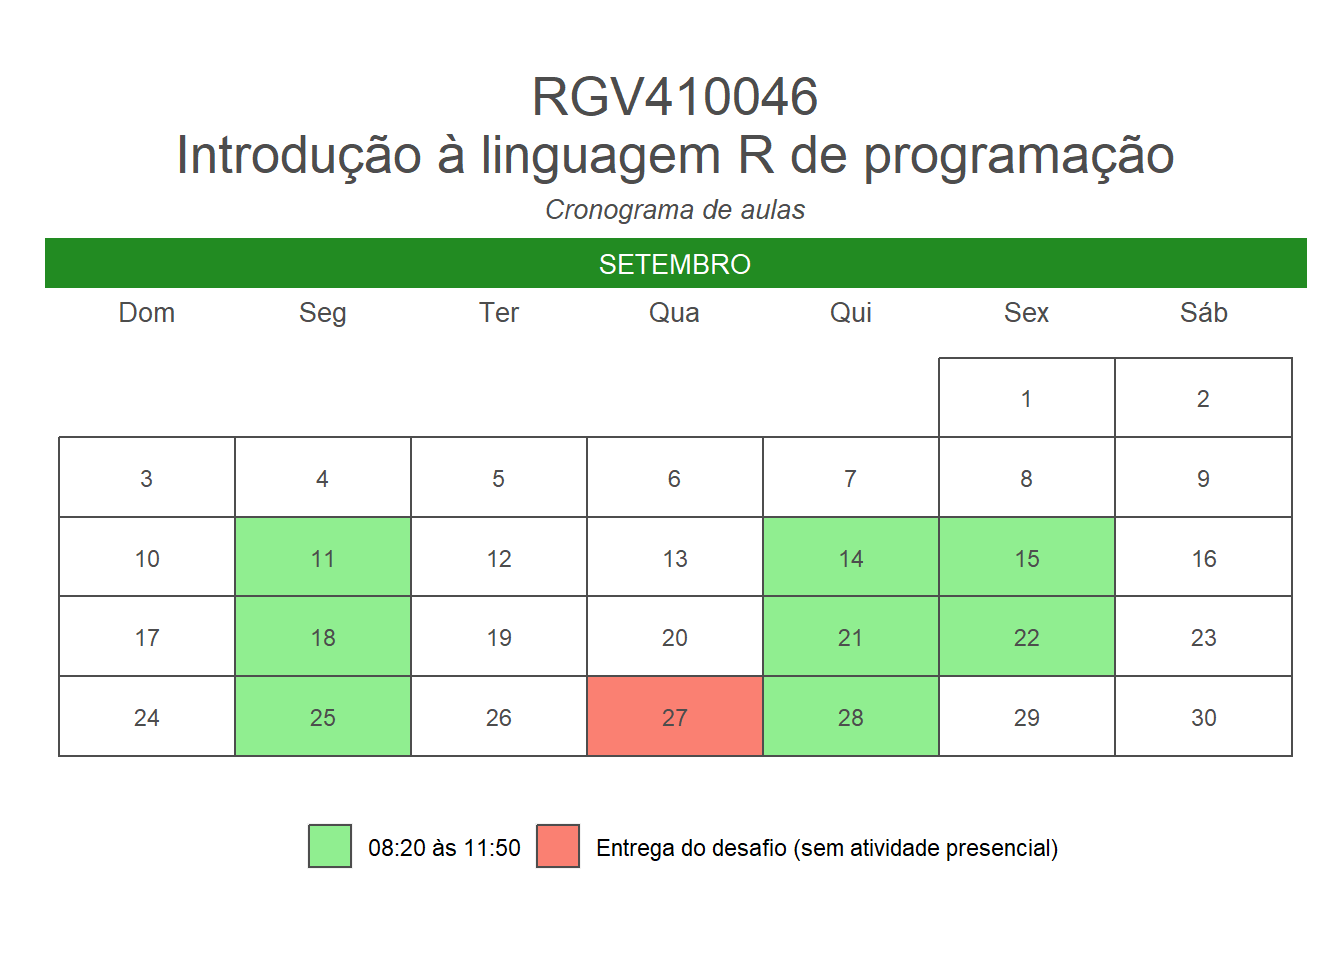
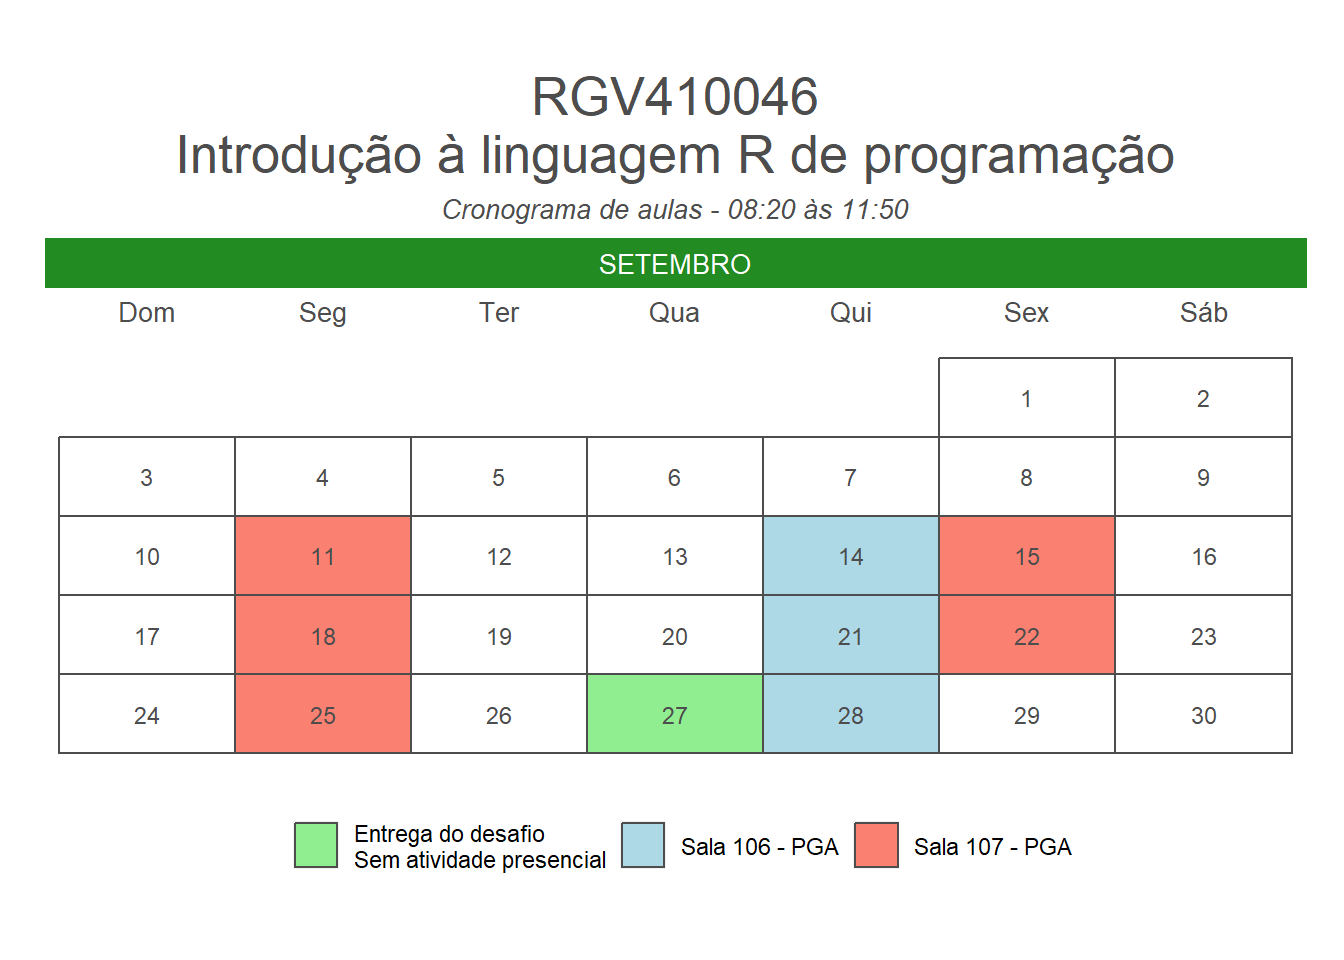
update site

diff --git a/docs/RGV410046/RGV410046_00_ABOUT.html b/docs/RGV410046/RGV410046_00_ABOUT.html
@@ -333,19 +333,19 @@ pre > code.sourceCode > span > a:first-child::before { text-decoration: underlin
 <span id="cb1-2"><a href="#cb1-2" aria-hidden="true" tabindex="-1"></a><span class="co"># tutorial calendR</span></span>
 <span id="cb1-3"><a href="#cb1-3" aria-hidden="true" tabindex="-1"></a><span class="co"># https://r-coder.com/calendar-plot-r/</span></span>
 <span id="cb1-4"><a href="#cb1-4" aria-hidden="true" tabindex="-1"></a>events <span class="ot">&lt;-</span> <span class="fu">rep</span>(<span class="cn">NA</span>, <span class="dv">30</span>)</span>
-<span id="cb1-5"><a href="#cb1-5" aria-hidden="true" tabindex="-1"></a>events[<span class="fu">c</span>(<span class="dv">11</span>, <span class="dv">14</span>, <span class="dv">15</span>, <span class="dv">18</span>, <span class="dv">21</span>, <span class="dv">22</span>, <span class="dv">25</span>, <span class="dv">28</span>)] <span class="ot">&lt;-</span> <span class="st">"08:20 às 11:50"</span></span>
-<span id="cb1-6"><a href="#cb1-6" aria-hidden="true" tabindex="-1"></a>events[<span class="dv">27</span>] <span class="ot">&lt;-</span> <span class="st">"Entrega do desafio (sem atividade presencial)"</span></span>
-<span id="cb1-7"><a href="#cb1-7" aria-hidden="true" tabindex="-1"></a></span>
-<span id="cb1-8"><a href="#cb1-8" aria-hidden="true" tabindex="-1"></a><span class="co"># img &lt;- "figs/calendr.png"</span></span>
-<span id="cb1-9"><a href="#cb1-9" aria-hidden="true" tabindex="-1"></a></span>
-<span id="cb1-10"><a href="#cb1-10" aria-hidden="true" tabindex="-1"></a><span class="co"># Creating the calendar</span></span>
-<span id="cb1-11"><a href="#cb1-11" aria-hidden="true" tabindex="-1"></a><span class="fu">calendR</span>(<span class="at">year =</span> <span class="dv">2022</span>,</span>
-<span id="cb1-12"><a href="#cb1-12" aria-hidden="true" tabindex="-1"></a>        <span class="at">start_date =</span><span class="st">"2023-09-01"</span>,</span>
+<span id="cb1-5"><a href="#cb1-5" aria-hidden="true" tabindex="-1"></a>events[<span class="fu">c</span>(<span class="dv">14</span>, <span class="dv">21</span>, <span class="dv">28</span>)] <span class="ot">&lt;-</span> <span class="st">"Sala 106 - PGA"</span></span>
+<span id="cb1-6"><a href="#cb1-6" aria-hidden="true" tabindex="-1"></a>events[<span class="fu">c</span>(<span class="dv">11</span>, <span class="dv">15</span>, <span class="dv">18</span>, <span class="dv">22</span>, <span class="dv">25</span>)] <span class="ot">&lt;-</span> <span class="st">"Sala 107 - PGA"</span></span>
+<span id="cb1-7"><a href="#cb1-7" aria-hidden="true" tabindex="-1"></a>events[<span class="dv">27</span>] <span class="ot">&lt;-</span> <span class="st">"Entrega do desafio </span><span class="sc">\n</span><span class="st">Sem atividade presencial"</span></span>
+<span id="cb1-8"><a href="#cb1-8" aria-hidden="true" tabindex="-1"></a></span>
+<span id="cb1-9"><a href="#cb1-9" aria-hidden="true" tabindex="-1"></a><span class="co"># img &lt;- "figs/calendr.png"</span></span>
+<span id="cb1-10"><a href="#cb1-10" aria-hidden="true" tabindex="-1"></a></span>
+<span id="cb1-11"><a href="#cb1-11" aria-hidden="true" tabindex="-1"></a><span class="co"># Creating the calendar</span></span>
+<span id="cb1-12"><a href="#cb1-12" aria-hidden="true" tabindex="-1"></a><span class="fu">calendR</span>(<span class="at">start_date =</span><span class="st">"2023-09-01"</span>,</span>
 <span id="cb1-13"><a href="#cb1-13" aria-hidden="true" tabindex="-1"></a>        <span class="at">end_date =</span> <span class="st">"2023-09-30"</span>,</span>
 <span id="cb1-14"><a href="#cb1-14" aria-hidden="true" tabindex="-1"></a>        <span class="at">special.days =</span> events,</span>
-<span id="cb1-15"><a href="#cb1-15" aria-hidden="true" tabindex="-1"></a>        <span class="at">special.col =</span>  <span class="fu">c</span>(<span class="st">"lightgreen"</span>, <span class="st">"salmon"</span>),</span>
+<span id="cb1-15"><a href="#cb1-15" aria-hidden="true" tabindex="-1"></a>        <span class="at">special.col =</span>  <span class="fu">c</span>(<span class="st">"lightgreen"</span>, <span class="st">"lightblue"</span>, <span class="st">"salmon"</span>),</span>
 <span id="cb1-16"><a href="#cb1-16" aria-hidden="true" tabindex="-1"></a>        <span class="at">title =</span> <span class="st">"RGV410046</span><span class="sc">\n</span><span class="st">Introdução à linguagem R de programação"</span>, </span>
-<span id="cb1-17"><a href="#cb1-17" aria-hidden="true" tabindex="-1"></a>        <span class="at">subtitle =</span> <span class="st">"Cronograma de aulas"</span>,</span>
+<span id="cb1-17"><a href="#cb1-17" aria-hidden="true" tabindex="-1"></a>        <span class="at">subtitle =</span> <span class="st">"Cronograma de aulas - 08:20 às 11:50"</span>,</span>
 <span id="cb1-18"><a href="#cb1-18" aria-hidden="true" tabindex="-1"></a>        <span class="at">mbg.col =</span> <span class="st">"forestgreen"</span>,            </span>
 <span id="cb1-19"><a href="#cb1-19" aria-hidden="true" tabindex="-1"></a>        <span class="at">months.col =</span> <span class="st">"white"</span>,</span>
 <span id="cb1-20"><a href="#cb1-20" aria-hidden="true" tabindex="-1"></a>        <span class="co"># bg.img = img,</span></span>
@@ -356,7 +356,7 @@ pre > code.sourceCode > span > a:first-child::before { text-decoration: underlin
 </div>
 <details>
 <summary>Clique aqui e veja como o calendário foi feito!</summary>
-<div class="sourceCode cell-code" id="cb2"><pre class="sourceCode r code-with-copy"><code class="sourceCode r"><span id="cb2-1"><a href="#cb2-1" aria-hidden="true" tabindex="-1"></a>ggplot2<span class="sc">::</span><span class="fu">ggsave</span>(<span class="st">"cronograma2.jpg"</span>, <span class="at">width =</span> <span class="fl">5.5</span>, <span class="at">height =</span> <span class="fl">5.5</span>)</span></code><button title="Copy to Clipboard" class="code-copy-button"><i class="bi"></i></button></pre></div>
+<div class="sourceCode cell-code" id="cb2"><pre class="sourceCode r code-with-copy"><code class="sourceCode r"><span id="cb2-1"><a href="#cb2-1" aria-hidden="true" tabindex="-1"></a><span class="co"># ggplot2::ggsave("cronograma2.jpg", width = 5.5, height = 5.5)</span></span></code><button title="Copy to Clipboard" class="code-copy-button"><i class="bi"></i></button></pre></div>
 </details>
 </div>
 </section>
@@ -1021,24 +1021,24 @@ window.document.addEventListener("DOMContentLoaded", function (event) {
 <span id="cb5-28"><a href="#cb5-28" aria-hidden="true" tabindex="-1"></a><span class="co"># tutorial calendR</span></span>
 <span id="cb5-29"><a href="#cb5-29" aria-hidden="true" tabindex="-1"></a><span class="co"># https://r-coder.com/calendar-plot-r/</span></span>
 <span id="cb5-30"><a href="#cb5-30" aria-hidden="true" tabindex="-1"></a>events <span class="ot">&lt;-</span> <span class="fu">rep</span>(<span class="cn">NA</span>, <span class="dv">30</span>)</span>
-<span id="cb5-31"><a href="#cb5-31" aria-hidden="true" tabindex="-1"></a>events[<span class="fu">c</span>(<span class="dv">11</span>, <span class="dv">14</span>, <span class="dv">15</span>, <span class="dv">18</span>, <span class="dv">21</span>, <span class="dv">22</span>, <span class="dv">25</span>, <span class="dv">28</span>)] <span class="ot">&lt;-</span> <span class="st">"08:20 às 11:50"</span></span>
-<span id="cb5-32"><a href="#cb5-32" aria-hidden="true" tabindex="-1"></a>events[<span class="dv">27</span>] <span class="ot">&lt;-</span> <span class="st">"Entrega do desafio (sem atividade presencial)"</span></span>
-<span id="cb5-33"><a href="#cb5-33" aria-hidden="true" tabindex="-1"></a></span>
-<span id="cb5-34"><a href="#cb5-34" aria-hidden="true" tabindex="-1"></a><span class="co"># img &lt;- "figs/calendr.png"</span></span>
-<span id="cb5-35"><a href="#cb5-35" aria-hidden="true" tabindex="-1"></a></span>
-<span id="cb5-36"><a href="#cb5-36" aria-hidden="true" tabindex="-1"></a><span class="co"># Creating the calendar</span></span>
-<span id="cb5-37"><a href="#cb5-37" aria-hidden="true" tabindex="-1"></a><span class="fu">calendR</span>(<span class="at">year =</span> <span class="dv">2022</span>,</span>
-<span id="cb5-38"><a href="#cb5-38" aria-hidden="true" tabindex="-1"></a>        <span class="at">start_date =</span><span class="st">"2023-09-01"</span>,</span>
+<span id="cb5-31"><a href="#cb5-31" aria-hidden="true" tabindex="-1"></a>events[<span class="fu">c</span>(<span class="dv">14</span>, <span class="dv">21</span>, <span class="dv">28</span>)] <span class="ot">&lt;-</span> <span class="st">"Sala 106 - PGA"</span></span>
+<span id="cb5-32"><a href="#cb5-32" aria-hidden="true" tabindex="-1"></a>events[<span class="fu">c</span>(<span class="dv">11</span>, <span class="dv">15</span>, <span class="dv">18</span>, <span class="dv">22</span>, <span class="dv">25</span>)] <span class="ot">&lt;-</span> <span class="st">"Sala 107 - PGA"</span></span>
+<span id="cb5-33"><a href="#cb5-33" aria-hidden="true" tabindex="-1"></a>events[<span class="dv">27</span>] <span class="ot">&lt;-</span> <span class="st">"Entrega do desafio </span><span class="sc">\n</span><span class="st">Sem atividade presencial"</span></span>
+<span id="cb5-34"><a href="#cb5-34" aria-hidden="true" tabindex="-1"></a></span>
+<span id="cb5-35"><a href="#cb5-35" aria-hidden="true" tabindex="-1"></a><span class="co"># img &lt;- "figs/calendr.png"</span></span>
+<span id="cb5-36"><a href="#cb5-36" aria-hidden="true" tabindex="-1"></a></span>
+<span id="cb5-37"><a href="#cb5-37" aria-hidden="true" tabindex="-1"></a><span class="co"># Creating the calendar</span></span>
+<span id="cb5-38"><a href="#cb5-38" aria-hidden="true" tabindex="-1"></a><span class="fu">calendR</span>(<span class="at">start_date =</span><span class="st">"2023-09-01"</span>,</span>
 <span id="cb5-39"><a href="#cb5-39" aria-hidden="true" tabindex="-1"></a>        <span class="at">end_date =</span> <span class="st">"2023-09-30"</span>,</span>
 <span id="cb5-40"><a href="#cb5-40" aria-hidden="true" tabindex="-1"></a>        <span class="at">special.days =</span> events,</span>
-<span id="cb5-41"><a href="#cb5-41" aria-hidden="true" tabindex="-1"></a>        <span class="at">special.col =</span>  <span class="fu">c</span>(<span class="st">"lightgreen"</span>, <span class="st">"salmon"</span>),</span>
+<span id="cb5-41"><a href="#cb5-41" aria-hidden="true" tabindex="-1"></a>        <span class="at">special.col =</span>  <span class="fu">c</span>(<span class="st">"lightgreen"</span>, <span class="st">"lightblue"</span>, <span class="st">"salmon"</span>),</span>
 <span id="cb5-42"><a href="#cb5-42" aria-hidden="true" tabindex="-1"></a>        <span class="at">title =</span> <span class="st">"RGV410046</span><span class="sc">\n</span><span class="st">Introdução à linguagem R de programação"</span>, </span>
-<span id="cb5-43"><a href="#cb5-43" aria-hidden="true" tabindex="-1"></a>        <span class="at">subtitle =</span> <span class="st">"Cronograma de aulas"</span>,</span>
+<span id="cb5-43"><a href="#cb5-43" aria-hidden="true" tabindex="-1"></a>        <span class="at">subtitle =</span> <span class="st">"Cronograma de aulas - 08:20 às 11:50"</span>,</span>
 <span id="cb5-44"><a href="#cb5-44" aria-hidden="true" tabindex="-1"></a>        <span class="at">mbg.col =</span> <span class="st">"forestgreen"</span>,            </span>
 <span id="cb5-45"><a href="#cb5-45" aria-hidden="true" tabindex="-1"></a>        <span class="at">months.col =</span> <span class="st">"white"</span>,</span>
 <span id="cb5-46"><a href="#cb5-46" aria-hidden="true" tabindex="-1"></a>        <span class="co"># bg.img = img,</span></span>
 <span id="cb5-47"><a href="#cb5-47" aria-hidden="true" tabindex="-1"></a>        <span class="at">legend.pos =</span> <span class="st">"bottom"</span>)</span>
-<span id="cb5-48"><a href="#cb5-48" aria-hidden="true" tabindex="-1"></a>ggplot2<span class="sc">::</span><span class="fu">ggsave</span>(<span class="st">"cronograma2.jpg"</span>, <span class="at">width =</span> <span class="fl">5.5</span>, <span class="at">height =</span> <span class="fl">5.5</span>)</span>
+<span id="cb5-48"><a href="#cb5-48" aria-hidden="true" tabindex="-1"></a><span class="co"># ggplot2::ggsave("cronograma2.jpg", width = 5.5, height = 5.5)</span></span>
 <span id="cb5-49"><a href="#cb5-49" aria-hidden="true" tabindex="-1"></a><span class="in">```</span></span>
 <span id="cb5-50"><a href="#cb5-50" aria-hidden="true" tabindex="-1"></a></span>
 <span id="cb5-51"><a href="#cb5-51" aria-hidden="true" tabindex="-1"></a><span class="fu"># Salas</span></span>
